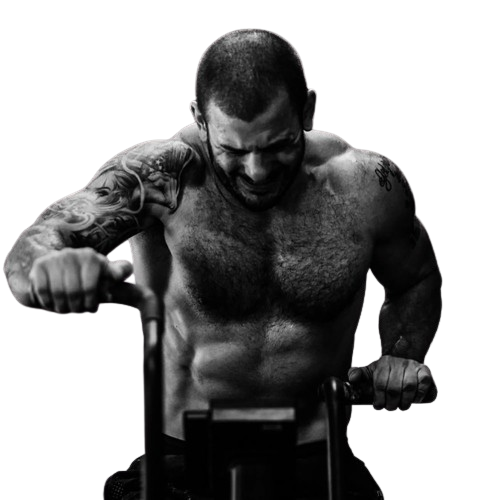
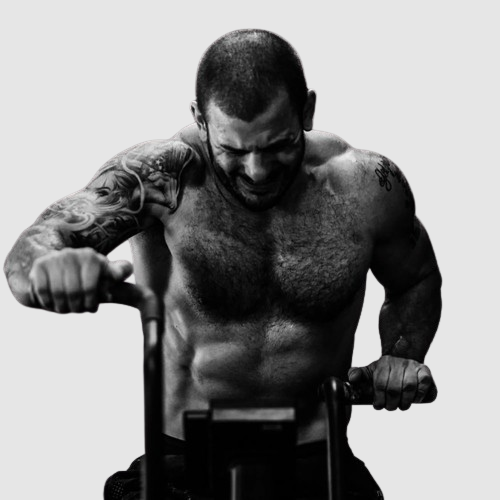
Improved MODES

diff --git a/src/components/Modes/index.tsx b/src/components/Modes/index.tsx
@@ -1,7 +1,7 @@
 import React from 'react';
 import { useNavigation } from '@react-navigation/native';
 import { View } from 'react-native';
-import { TouchableRipple, Card, Text, Icon, MD3Colors } from 'react-native-paper';
+import { TouchableRipple, Card, Text } from 'react-native-paper';
 import { styles } from './styles';
 
 const Modes = () => {
@@ -10,41 +10,33 @@ const Modes = () => {
         <View
             style={styles.content}
         >
-            <Card style={styles.modeCard} mode='outlined'>
+            <Card style={styles.modeCard} mode="contained" contentStyle={styles.modeCardContent}>
                 <TouchableRipple onPress={() => navigation.navigate({ name: "Emom" } as never)} >
-                    <Card.Content>
-                        <Card.Cover source={require('../../assets/modes/MattFraserWBG.png')} />
-                        <Text style={styles.modeTitle} variant="titleLarge">EMOM</Text>
-                    </Card.Content>
-                </TouchableRipple>
-            </Card>
-            <Card style={styles.modeCard} onPress={() => navigation.navigate({ name: "Amrap" } as never)} >
-                <TouchableRipple onPress={() => navigation.navigate({ name: "Amrap" } as never)} >
-                    <Card.Content>
-                        <Card.Cover source={require('../../assets/modes/TiaClairToomeyWBG.png')} />
-                        <Text style={styles.modeTitle} variant="titleLarge">Amrap</Text>
-                    </Card.Content>
-                </TouchableRipple>
-            </Card>
-            {/* <Card style={styles.modeCard}>
-                <TouchableRipple onPress={() => navigation.navigate({ name: "ForTime" } as never)} >
-                    <Card.Content>
-                        <View style={styles.modeCardContent}>
-                            <Icon
-                                source="alpha-t-circle"
-                                color={MD3Colors.tertiary95}
-                                size={60}
-                            />
-                            <Text style={styles.modeTitle} variant="titleLarge">ForTime</Text>
+                    <Card.Content style={styles.modeCardContent}>
+                        <Card.Cover resizeMode="cover" style={styles.modeCardCover} source={require('../../assets/modes/MattFraserWBG.png')} />
+                        <View style={styles.modeTitleWrapper}>
+                            <Text style={styles.modeTitle} variant="titleLarge">EMOM</Text>
                         </View>
                     </Card.Content>
                 </TouchableRipple>
-            </Card> */}
-            <Card style={styles.modeCard}>
+            </Card>
+            <Card style={styles.modeCard} mode="contained" contentStyle={styles.modeCardContent}>
+                <TouchableRipple onPress={() => navigation.navigate({ name: "Amrap" } as never)} >
+                    <Card.Content style={styles.modeCardContent}>
+                        <Card.Cover resizeMode="cover" style={styles.modeCardCover} source={require('../../assets/modes/TiaClairToomeyWBG.png')} />
+                        <View style={styles.modeTitleWrapper}>
+                            <Text style={styles.modeTitle} variant="titleLarge">Amrap</Text>
+                        </View>
+                    </Card.Content>
+                </TouchableRipple>
+            </Card>
+            <Card style={styles.modeCard} mode="contained" contentStyle={styles.modeCardContent}>
                 <TouchableRipple onPress={() => navigation.navigate({ name: "Settings" } as never)} >
-                    <Card.Content>
-                        <Card.Cover source={require('../../assets/modes/RichFroningWBG.png')} />
-                        <Text style={styles.modeTitle} variant="titleLarge">Settings</Text>
+                    <Card.Content style={styles.modeCardContent}>
+                        <Card.Cover resizeMode="cover" style={styles.modeCardCover} source={require('../../assets/modes/RichFroningWBG.png')} />
+                        <View style={styles.modeTitleWrapper}>
+                            <Text style={styles.modeTitle} variant="titleLarge">Settings</Text>
+                        </View>
                     </Card.Content>
                 </TouchableRipple >
             </Card>

diff --git a/src/components/TimeSelector/SelectorDialog.tsx b/src/components/TimeSelector/SelectorDialog.tsx
@@ -21,17 +21,11 @@ const TimeSelectorDialog = ({ visible, hideDialog, minutes, setMinutes, seconds,
                             onValueChange={(itemValue) =>
                                 setMinutes(itemValue)
                             }>
-                            <Picker.Item label="0" value="0" />
-                            <Picker.Item label="1" value="1" />
-                            <Picker.Item label="2" value="2" />
-                            <Picker.Item label="3" value="3" />
-                            <Picker.Item label="4" value="4" />
-                            <Picker.Item label="5" value="5" />
-                            <Picker.Item label="6" value="6" />
-                            <Picker.Item label="7" value="7" />
-                            <Picker.Item label="8" value="8" />
-                            <Picker.Item label="9" value="9" />
-                            <Picker.Item label="10" value="10" />
+                            {
+                                Array.from(Array(101).keys()).map((item, index) => {
+                                   return <Picker.Item key={`minutes-${index}`} label={`${item}`} value={index} />
+                                })
+                            }
                         </Picker>
                         <Picker
                             numberOfLines={1}
@@ -41,6 +35,7 @@ const TimeSelectorDialog = ({ visible, hideDialog, minutes, setMinutes, seconds,
                             onValueChange={(itemValue) =>
                                 setSeconds(itemValue)
                             }>
+                            <Picker.Item label="0" value="0" />
                             <Picker.Item label="5" value="5" />
                             <Picker.Item label="15" value="15" />
                             <Picker.Item label="20" value="20" />

diff --git a/src/components/Modes/styles.ts b/src/components/Modes/styles.ts
@@ -2,6 +2,7 @@ import {
     Dimensions,
     StyleSheet
 } from 'react-native';
+import { BORDER } from '../../utils/styles';
 
 export const styles = StyleSheet.create({
     content: {
@@ -16,16 +17,30 @@ export const styles = StyleSheet.create({
         backgroundColor: '#E6E6E6',
     },
     modeCardContent: {
-        display: 'flex',
-        width: '100%',
         height: '100%',
-        flexDirection: 'column',
-        justifyContent: 'center',
-        alignItems: 'center',
+        width: '100%',
+    },
+    modeCardCover: {
+        width: '100%',
+        backgroundColor: '#E6E6E6',
+        opacity: 0.6,
+    },
+    modeTitleWrapper: {
+        position: 'absolute',
+        height: '15%',
+        width: '122%',
+        left: 0,
+        bottom: 0,
+        display: 'flex',
+        backgroundColor: '#E6E6E6',
+        borderBottomRightRadius: BORDER,
+        borderBottomLeftRadius: BORDER
     },
     modeTitle: {
         position: 'absolute',
-        top: '45%',
+        bottom: '5%',
         left: '35%',
+        color: 'black',
+        opacity: 1
     }
 });

diff --git a/src/screens/settings/index.tsx b/src/screens/settings/index.tsx
@@ -2,15 +2,11 @@ import Layout from '../../components/Layout';
 import React from 'react';
 import { styles } from './styles';
 import SoundSettings from './Sound';
-import TimerSettings from './Timer';
 
-const Settings = ({ navigation }: any) => {
-    return (
-        <Layout style={styles.container}>
-            <SoundSettings />
-            <TimerSettings />
-        </Layout>
-    );
-}
+const Settings = () => (
+    <Layout style={styles.container}>
+        <SoundSettings />
+    </Layout>
+);
 
 export default Settings;
